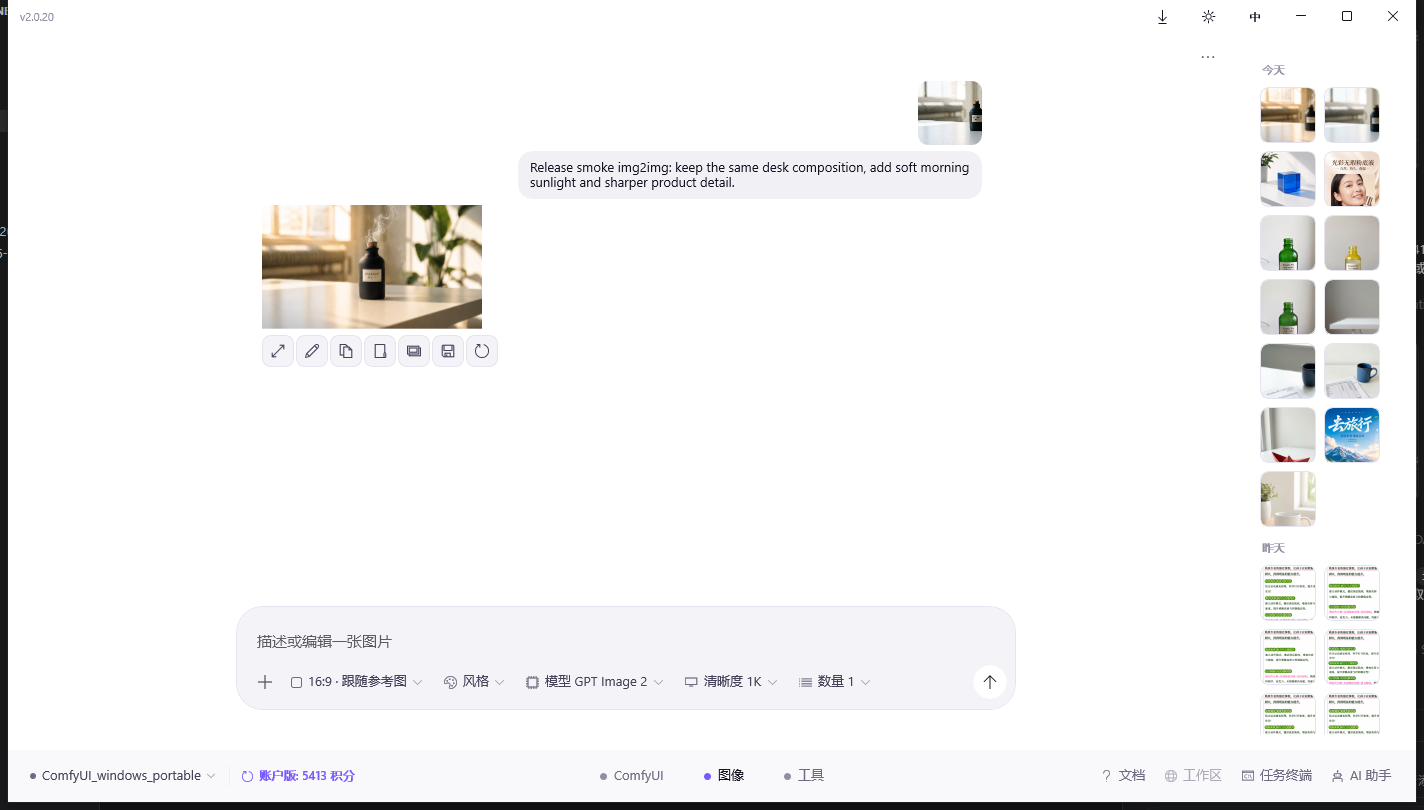
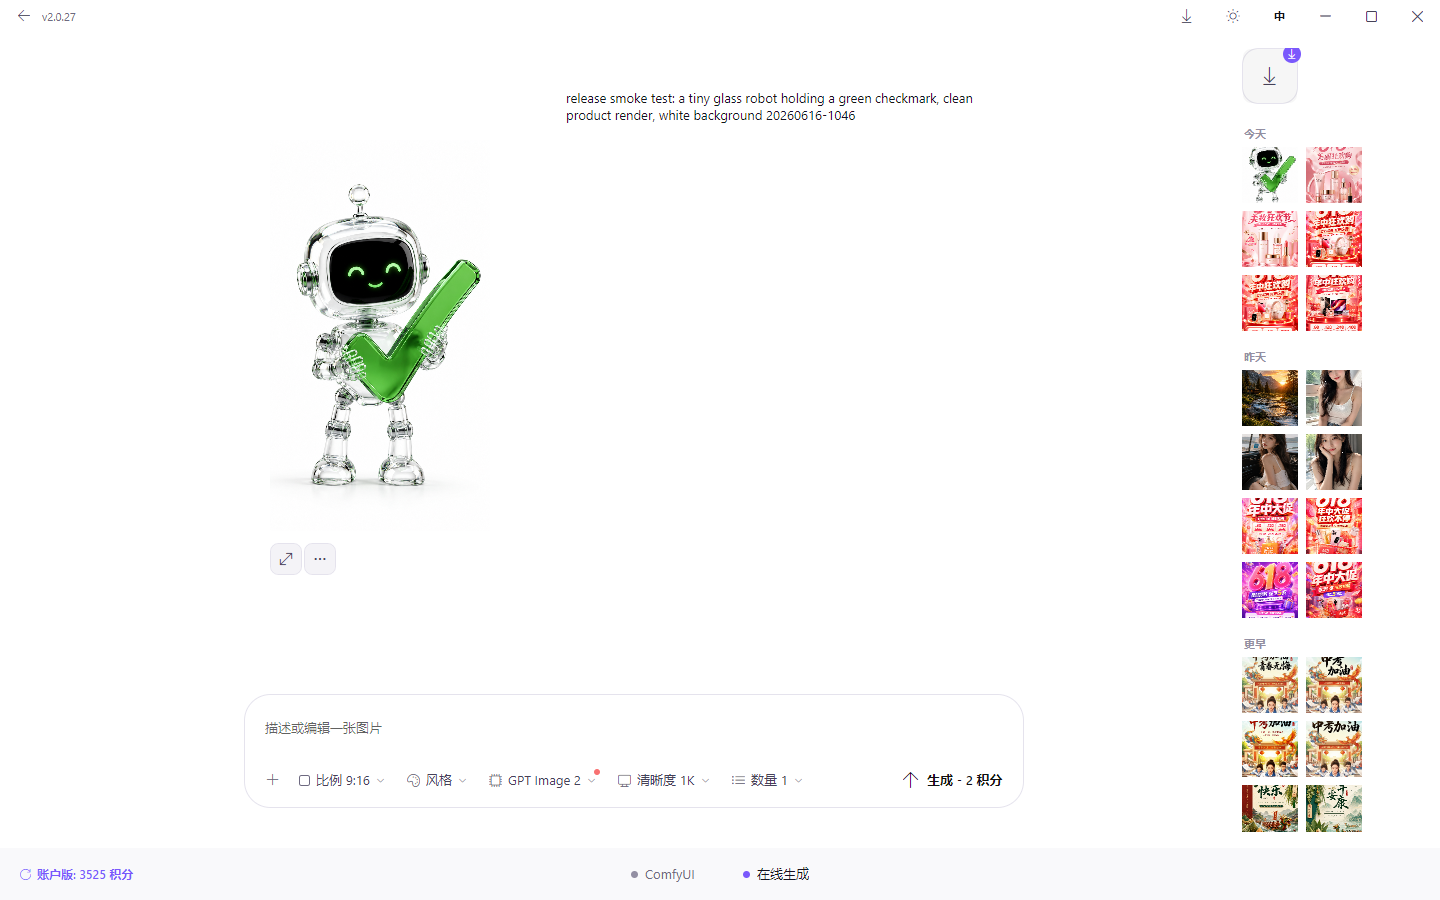
docs(release): prepare 2.0.32 Wonderful Launcher rollout

diff --git a/README.md b/README.md
@@ -6,11 +6,11 @@
 
 ### Wonderful Launcher is the public brand. The current desktop app name is still ModelFinder.
 
-[![GitHub Release](https://img.shields.io/github/v/release/hu-haibin/ModelFinder-Releases?style=for-the-badge&logo=github&label=Latest%20Release)](https://github.com/hu-haibin/ModelFinder-Releases/releases/latest)
-[![Product Downloads](https://img.shields.io/badge/dynamic/json?url=https%3A%2F%2Fraw.githubusercontent.com%2Fhu-haibin%2FModelFinder-Releases%2Fmain%2Fstats%2Fdownloads.json&query=%24.current_product_downloads&style=for-the-badge&logo=github&label=Product%20Downloads)](https://github.com/hu-haibin/ModelFinder-Releases/releases)
-[![Platform](https://img.shields.io/badge/Platform-Windows%2010%2F11-0078D6?style=for-the-badge&logo=windows)](https://github.com/hu-haibin/ModelFinder-Releases/releases/latest)
+[![GitHub Release](https://img.shields.io/github/v/release/hu-haibin/wonderful-launcher-comfyui?style=for-the-badge&logo=github&label=Latest%20Release)](https://github.com/hu-haibin/wonderful-launcher-comfyui/releases/latest)
+[![Product Downloads](https://img.shields.io/badge/dynamic/json?url=https%3A%2F%2Fraw.githubusercontent.com%2Fhu-haibin%2Fwonderful-launcher-comfyui%2Fmain%2Fstats%2Fdownloads.json&query=%24.current_product_downloads&style=for-the-badge&logo=github&label=Product%20Downloads)](https://github.com/hu-haibin/wonderful-launcher-comfyui/releases)
+[![Platform](https://img.shields.io/badge/Platform-Windows%2010%2F11-0078D6?style=for-the-badge&logo=windows)](https://github.com/hu-haibin/wonderful-launcher-comfyui/releases/latest)
 
-[**Download Latest Installer**](https://github.com/hu-haibin/ModelFinder-Releases/releases/latest) · [**Official Website**](https://wonderfullauncher.com/) · [**Docs**](https://wonderfullauncher.com/docs) · [**Troubleshooting**](https://wonderfullauncher.com/troubleshooting) · [**Current Release**](https://github.com/hu-haibin/ModelFinder-Releases/releases/tag/v2.0.31) · [**Report Issues**](https://github.com/hu-haibin/ModelFinder-Releases/issues)
+[**Download Latest Installer**](https://github.com/hu-haibin/wonderful-launcher-comfyui/releases/latest) · [**Official Website**](https://wonderfullauncher.com/) · [**Docs**](https://wonderfullauncher.com/docs) · [**Troubleshooting**](https://wonderfullauncher.com/troubleshooting) · [**Current Release**](https://github.com/hu-haibin/wonderful-launcher-comfyui/releases/tag/v2.0.32) · [**Report Issues**](https://github.com/hu-haibin/wonderful-launcher-comfyui/issues)
 
 </div>
 
@@ -18,8 +18,8 @@
 
 ## Download recommendation
 
-- **Recommended for most users**: [ModelFinder 2.0.31](https://github.com/hu-haibin/ModelFinder-Releases/releases/tag/v2.0.31)
-- **Public stable fallback**: [ModelFinder 2.0.26](https://github.com/hu-haibin/ModelFinder-Releases/releases/tag/v2.0.26)
+- **Recommended for most users**: [Wonderful Launcher 2.0.32](https://github.com/hu-haibin/wonderful-launcher-comfyui/releases/tag/v2.0.32)
+- **Public stable fallback**: [ModelFinder 2.0.31](https://github.com/hu-haibin/wonderful-launcher-comfyui/releases/tag/v2.0.31)
 
 Wonderful Launcher is the external product brand today. Downloaded installers and the desktop app may still show the current app name, `ModelFinder`, during this transition period.
 
@@ -57,17 +57,20 @@ Wonderful Launcher brings those jobs into one desktop workflow through the curre
 
 ---
 
-## What's new in 2.0.31
+## What's new in 2.0.32
 
-Released on June 19, 2026. [Open the full GitHub Release](https://github.com/hu-haibin/ModelFinder-Releases/releases/tag/v2.0.31).
+Released on June 19, 2026. [Open the full GitHub Release](https://github.com/hu-haibin/wonderful-launcher-comfyui/releases/tag/v2.0.32).
 
-This release stabilizes the Avalonia image workspace so longer-running image jobs no longer interrupt the next creative step.
+This release turns the public install surface into Wonderful Launcher while preserving the proven in-place upgrade path from older `2.0.x` ModelFinder installs.
 
-- **Parallel image turns**: you can draft and send the next image request while earlier jobs are still queued or generating.
-- **Reference and history parity**: the left `input` rail now behaves more like the main history rail, including viewing, drag reuse, and context actions.
-- **Recovered drag-and-drop**: the larger reference drop zone is back, so dragging images into the composer works closer to the older flow.
-- **Clearer loading placeholders**: generation state now lives on the card itself with the workflow-template sweep border instead of a floating global banner.
-- **Recent regressions fixed**: Enter-to-send and `Generate again` both recover from the broken behavior seen in earlier Avalonia releases.
+- **New installer name**: the public setup file is now `WonderfulLauncher-Setup-v2.0.32.exe`.
+- **Upgrade path kept intact**: existing `2.0.x` installs can still upgrade in place instead of splitting into a second side-by-side app.
+- **Cleaner Windows surface**: the installer now writes `Wonderful Launcher` as the install-facing product name and cleans older `ModelFinder` shortcut entries during reinstall.
+- **Fresh-install default path updated**: new installs now default to `%LocalAppData%\\Wonderful Launcher`, while upgrades keep the previous install root when one already exists.
+- **Image workspace improvements from 2.0.31 remain included**: parallel image turns, restored drag-and-drop, stronger reference/history reuse, and card-level generation placeholders are all part of this build.
+
+> [!NOTE]
+> This is a transition release. Some internal identifiers may still show `ModelFinder` or `mf` in places such as the taskbar or process-level diagnostics while the public installer and install surface already use `Wonderful Launcher`.
 
 ---
 
@@ -91,9 +94,9 @@ This release stabilizes the Avalonia image workspace so longer-running image job
 
 ### Install
 
-1. Open the [latest GitHub Release](https://github.com/hu-haibin/ModelFinder-Releases/releases/latest).
-2. Download `ModelFinderLauncher-Setup-v*.exe`.
-3. Run the installer and launch ModelFinder.
+1. Open the [latest GitHub Release](https://github.com/hu-haibin/wonderful-launcher-comfyui/releases/latest).
+2. Download `WonderfulLauncher-Setup-v*.exe`.
+3. Run the installer and launch Wonderful Launcher.
 
 > [!WARNING]
 > Download the **Setup Installer** from the release assets. Do not download GitHub's auto-generated `Source code.zip` or `Source code.tar.gz`. Those are source archives, not runnable desktop builds.
@@ -127,6 +130,13 @@ Avoid selecting these folders by mistake:
 ---
 
 ## FAQ
+
+<details>
+<summary><b>Why do I still see ModelFinder or mf in some Windows places?</b></summary>
+
+`2.0.32` updates the public installer and install-facing brand first. Some internal identifiers are intentionally kept for compatibility during the first migration step, so taskbar or process-related surfaces can still show `ModelFinder` or `mf` for now.
+
+</details>
 
 <details>
 <summary><b>Do I need to install Python first?</b></summary>

diff --git a/README_CN.md b/README_CN.md
@@ -6,11 +6,11 @@
 
 ### `Wonderful Launcher` 是对外品牌名，当前桌面应用本体暂时仍叫 `ModelFinder`。
 
-[![GitHub Release](https://img.shields.io/github/v/release/hu-haibin/ModelFinder-Releases?style=for-the-badge&logo=github&label=最新版本)](https://github.com/hu-haibin/ModelFinder-Releases/releases/latest)
-[![产品下载量](https://img.shields.io/badge/dynamic/json?url=https%3A%2F%2Fraw.githubusercontent.com%2Fhu-haibin%2FModelFinder-Releases%2Fmain%2Fstats%2Fdownloads.json&query=%24.current_product_downloads&style=for-the-badge&logo=github&label=%E4%BA%A7%E5%93%81%E4%B8%8B%E8%BD%BD%E9%87%8F)](https://github.com/hu-haibin/ModelFinder-Releases/releases)
-[![Platform](https://img.shields.io/badge/平台-Windows%2010%2F11-0078D6?style=for-the-badge&logo=windows)](https://github.com/hu-haibin/ModelFinder-Releases/releases/latest)
+[![GitHub Release](https://img.shields.io/github/v/release/hu-haibin/wonderful-launcher-comfyui?style=for-the-badge&logo=github&label=最新版本)](https://github.com/hu-haibin/wonderful-launcher-comfyui/releases/latest)
+[![产品下载量](https://img.shields.io/badge/dynamic/json?url=https%3A%2F%2Fraw.githubusercontent.com%2Fhu-haibin%2Fwonderful-launcher-comfyui%2Fmain%2Fstats%2Fdownloads.json&query=%24.current_product_downloads&style=for-the-badge&logo=github&label=%E4%BA%A7%E5%93%81%E4%B8%8B%E8%BD%BD%E9%87%8F)](https://github.com/hu-haibin/wonderful-launcher-comfyui/releases)
+[![Platform](https://img.shields.io/badge/平台-Windows%2010%2F11-0078D6?style=for-the-badge&logo=windows)](https://github.com/hu-haibin/wonderful-launcher-comfyui/releases/latest)
 
-[**下载最新安装包**](https://github.com/hu-haibin/ModelFinder-Releases/releases/latest) · [**官网**](https://wonderfullauncher.com/) · [**文档**](https://wonderfullauncher.com/docs) · [**故障排查**](https://wonderfullauncher.com/troubleshooting) · [**当前版本**](https://github.com/hu-haibin/ModelFinder-Releases/releases/tag/v2.0.31) · [**反馈问题**](https://github.com/hu-haibin/ModelFinder-Releases/issues)
+[**下载最新安装包**](https://github.com/hu-haibin/wonderful-launcher-comfyui/releases/latest) · [**官网**](https://wonderfullauncher.com/) · [**文档**](https://wonderfullauncher.com/docs) · [**故障排查**](https://wonderfullauncher.com/troubleshooting) · [**当前版本**](https://github.com/hu-haibin/wonderful-launcher-comfyui/releases/tag/v2.0.32) · [**反馈问题**](https://github.com/hu-haibin/wonderful-launcher-comfyui/issues)
 
 </div>
 
@@ -18,8 +18,8 @@
 
 ## 下载建议
 
-- **普通用户推荐**：[ModelFinder 2.0.31](https://github.com/hu-haibin/ModelFinder-Releases/releases/tag/v2.0.31)
-- **公开稳定回退版本**：[ModelFinder 2.0.26](https://github.com/hu-haibin/ModelFinder-Releases/releases/tag/v2.0.26)
+- **普通用户推荐**：[Wonderful Launcher 2.0.32](https://github.com/hu-haibin/wonderful-launcher-comfyui/releases/tag/v2.0.32)
+- **公开稳定回退版本**：[ModelFinder 2.0.31](https://github.com/hu-haibin/wonderful-launcher-comfyui/releases/tag/v2.0.31)
 
 现在对外产品品牌统一按 `Wonderful Launcher` 表达，但下载后的安装包、程序窗口和部分界面在过渡期内仍可能显示当前应用名 `ModelFinder`。
 
@@ -57,17 +57,20 @@ Wonderful Launcher 的目标，是通过当前的 ModelFinder 桌面应用，把
 
 ---
 
-## 2.0.31 更新了什么
+## 2.0.32 更新了什么
 
-发布于 2026 年 6 月 19 日。[查看完整 GitHub Release](https://github.com/hu-haibin/ModelFinder-Releases/releases/tag/v2.0.31)。
+发布于 2026 年 6 月 19 日。[查看完整 GitHub Release](https://github.com/hu-haibin/wonderful-launcher-comfyui/releases/tag/v2.0.32)。
 
-这个版本重点是把 Avalonia 图片工作区从“能用”拉回到“适合持续创作”。
+这个版本重点是把公开安装表面切到 `Wonderful Launcher`，同时保留旧 `2.0.x` 的原地升级路径，不把用户拆成两个并列安装。
 
-- **支持并行追加生图轮次**：前一轮还在排队或生成时，你可以继续编辑并发送下一轮图片请求。
-- **参考图和历史图区交互更一致**：左侧 `input` 栏现在更接近右侧历史栏，支持查看、拖回和上下文操作。
-- **拖拽回填恢复**：更大的参考图区命中范围回来了，把图片拖回输入区的体验更接近旧版本。
-- **生成占位更清楚**：状态附着在卡片本身，复用工作流模板的描边流光动画，不再靠漂浮的全局横条提示。
-- **修掉最近回归**：回车发送和“再生成一张”都修回来了，不再延续前几个 Avalonia 版本的问题。
+- **安装包文件名更新**：公开下载的 setup 安装器现在是 `WonderfulLauncher-Setup-v2.0.32.exe`。
+- **升级链路保持原地迁移**：已有 `2.0.x` 用户仍可直接升级，不会因为改名被拆成一个新的并列安装。
+- **Windows 安装表面更统一**：安装器面向用户显示的产品名改为 `Wonderful Launcher`，重装时也会顺手清理旧的 `ModelFinder` 快捷方式痕迹。
+- **全新安装默认目录更新**：新安装默认落在 `%LocalAppData%\\Wonderful Launcher`，但已有安装升级时仍优先沿用原路径。
+- **2.0.31 的图片工作区修复继续保留**：并行生图、多轮追加、拖拽恢复、参考图/历史图复用、卡片内生成占位，这些能力都包含在本版内。
+
+> [!NOTE]
+> 这是一次过渡版改名。安装器和安装表面已经切到 `Wonderful Launcher`，但任务栏、进程名或部分系统级标识里，仍可能暂时看到 `ModelFinder` 或 `mf`。
 
 ---
 
@@ -91,9 +94,9 @@ Wonderful Launcher 的目标，是通过当前的 ModelFinder 桌面应用，把
 
 ### 安装
 
-1. 打开 [最新 GitHub Release](https://github.com/hu-haibin/ModelFinder-Releases/releases/latest)。
-2. 下载 `ModelFinderLauncher-Setup-v*.exe`。
-3. 运行安装包并启动 ModelFinder。
+1. 打开 [最新 GitHub Release](https://github.com/hu-haibin/wonderful-launcher-comfyui/releases/latest)。
+2. 下载 `WonderfulLauncher-Setup-v*.exe`。
+3. 运行安装包并启动 Wonderful Launcher。
 
 > [!WARNING]
 > 请下载 release 资产里的 **Setup 安装包**。不要下载 GitHub 自动生成的 `Source code.zip` 或 `Source code.tar.gz`，那是源码压缩包，不能直接运行。
@@ -127,6 +130,13 @@ Wonderful Launcher 的目标，是通过当前的 ModelFinder 桌面应用，把
 ---
 
 ## 常见问题
+
+<details>
+<summary><b>为什么有些 Windows 位置里还是会看到 ModelFinder 或 mf？</b></summary>
+
+`2.0.32` 先切的是公开安装器和安装表面的品牌。为了兼容已有升级链路，这一版还保留了一部分内部标识，所以任务栏、进程相关位置里暂时仍可能显示 `ModelFinder` 或 `mf`。
+
+</details>
 
 <details>
 <summary><b>需要先安装 Python 吗？</b></summary>